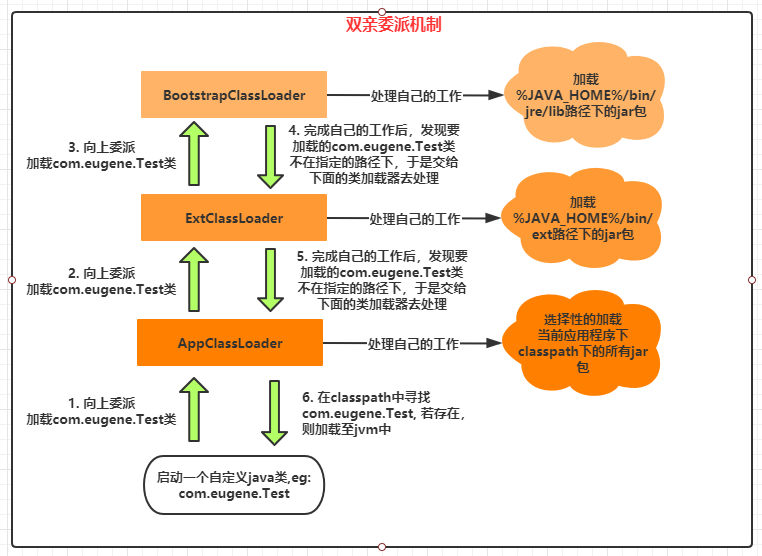
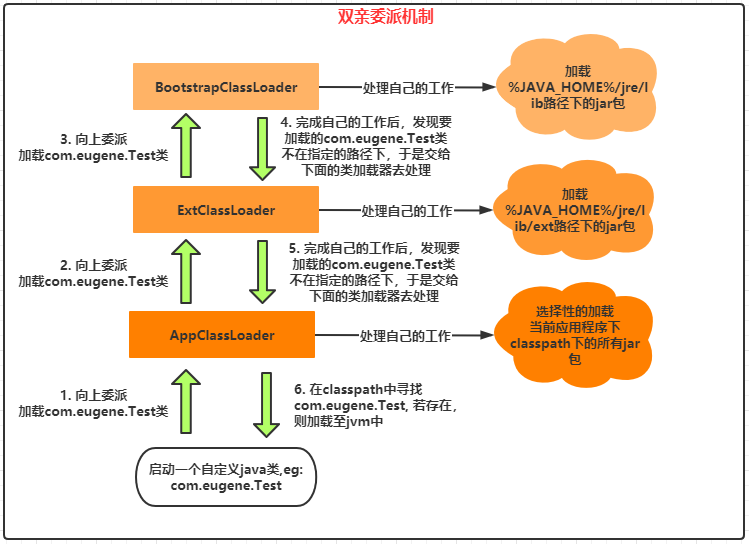
更新jvm类加载机制原理图

Changed region(s): [[0.0, 0.0, 1.0, 1.0], [0.6756, 0.4688, 0.8905, 0.7188], [0.6756, 0.3125, 0.7063, 0.3438]]

diff --git a/src/main/java/jvm/README.md b/src/main/java/jvm/README.md
@@ -210,9 +210,9 @@ jvm分为两个大区域一个是线程间共享的一个是线程私有的
 
 其中线程间共享的区域包含：堆、方法区(存储类的元信息)
 
-线程私有的包含: 栈
+线程私有的包含: 程序计数器、栈、本地方法栈
 
-其中栈又包含：程序计数器、栈帧、本地方法栈, 每启动一个线程就会创建一个对应的栈, 线程方法入口处每调用一个方法
+其中栈是指每启动一个线程就会创建一个对应的栈, 线程方法入口处每调用一个方法
 就创建一个栈帧
 其中栈帧又包括：局部变量表、操作数栈、动态链接、方法出口。
 
